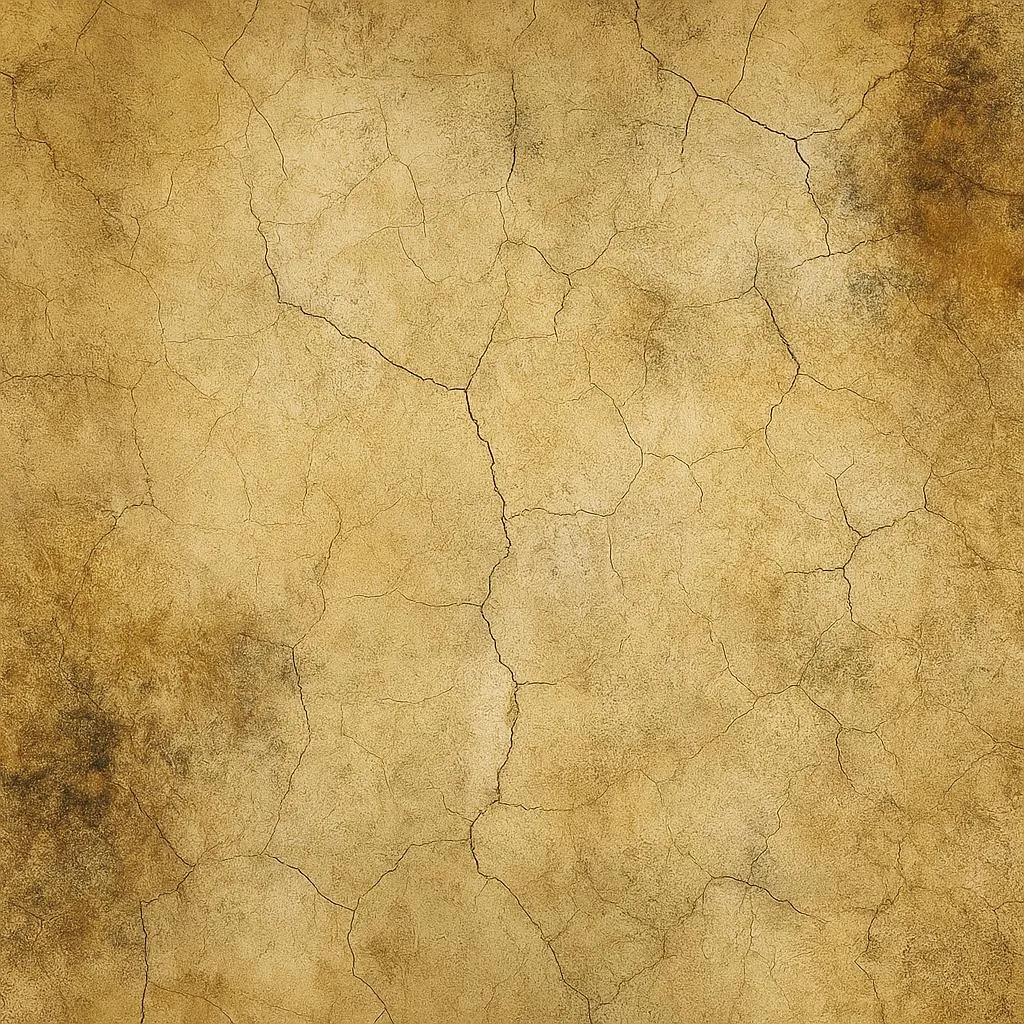
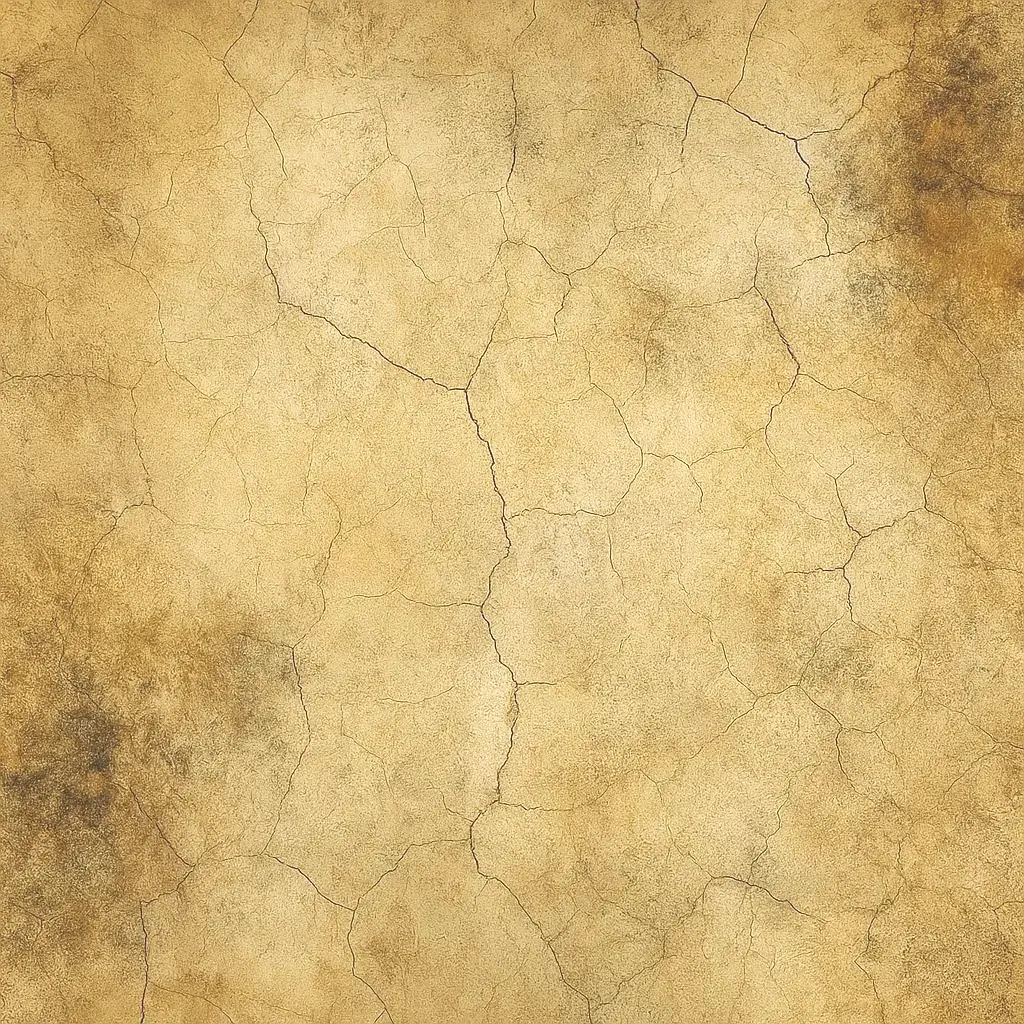
Auto backup: 2025-12-15 22:19:01

diff --git a/src/components/sections/services_backup.tsx b/src/components/sections/services_backup.tsx
@@ -1,0 +1,66 @@
+import Link from 'next/link'
+import Image from 'next/image'
+import { services } from '@/lib/services-data'
+import manifest from '@/config/KANONICZNY_MANIFEST.json'
+import { ArrowRight } from 'lucide-react'
+
+export function Services() {
+  return (
+    <section id="uslugi" className="relative pt-8 md:pt-12 pb-16 md:pb-24 text-center text-white bg-[#1e1b16]">
+      {/* Tło */}
+      <div
+        className="absolute inset-0 bg-cover bg-center"
+        style={{
+          backgroundImage: `url('${manifest.services_background}')`,
+        }}
+      >
+        <div className="absolute inset-0 bg-black/50" />
+      </div>
+
+      {/* Zawartość */}
+      <div className="relative max-w-7xl mx-auto px-4 md:px-6">
+        <div className="mb-6 text-center">
+          <h2 className="text-[40px] font-cormorant font-bold text-[#ffffff] leading-[1.1]">
+            Nasze Usługi
+          </h2>
+          <p className="mt-[6px] text-[18px] text-[#bfa76a] font-cormorant italic leading-tight max-w-5xl mx-auto font-semibold drop-shadow-2xl">
+            Oferujemy serwis komputerów, laptopów i drukarek oraz wsparcie techniczne dla domu i biura we Wrocławiu
+          </p>
+        </div>
+
+        <div className="grid grid-cols-1 md:grid-cols-2 lg:grid-cols-3 gap-4 items-start">
+          {services.map((service) => (
+            <Link
+              key={service.slug}
+              href={`/uslugi/${service.slug}`}
+              className="group relative min-h-[70px] rounded-lg py-2 px-3 border-2 border-[rgba(200,169,107,0.5)] hover:border-[rgba(200,169,107,0.85)] transition-all duration-300 hover:shadow-xl flex items-center text-left w-full services-card-bg"
+            >
+              {/* Ikona */}
+              <div className="mr-4 w-[50px] h-[50px] flex-shrink-0 flex items-center justify-center">
+                <Image
+                  src={service.icon}
+                  alt={`${service.title} Wrocław - ikona usługi serwisowej`}
+                  width={50}
+                  height={50}
+                  className="object-contain w-full h-full opacity-90 group-hover:opacity-100 transition-opacity"
+                  unoptimized
+                />
+              </div>
+
+              {/* Treść */}
+              <div className="flex-1">
+                <h3 className="text-lg md:text-xl font-cormorant font-semibold text-[#ffffff] group-hover:text-white transition-colors mb-1 leading-tight">
+                  {service.title}
+                </h3>
+                <div className="flex items-center gap-2 text-[#bfa76a] text-xs font-serif group-hover:translate-x-1 transition-transform">
+                  <span>Zobacz cennik</span>
+                  <ArrowRight className="w-3 h-3" />
+                </div>
+              </div>
+            </Link>
+          ))}
+        </div>
+      </div>
+    </section>
+  )
+}

diff --git a/src/app/uslugi/service-accordion.tsx b/src/app/uslugi/service-accordion.tsx
@@ -1399,11 +1399,11 @@ const getPrinterImageForCategory = (categoryTitle: string, serviceSlug?: string)
   if (serviceSlug === 'serwis-drukarek-iglowych') {
     switch (categoryTitle) {
       case 'Mała drukarka igłowa':
-        return '/images/Mała_drukarka_Igłowa.png'
+        return '/images/Mała_drukarka_Igłowa.webp'
       case 'Średnia drukarka igłowa':
-        return '/images/Średnia_drukarka_Igłowa.png'
+        return '/images/Średnia_drukarka_Igłowa.webp'
       case 'Duża drukarka igłowa':
-        return '/images/Duża_drukarka_Igłowa.png'
+        return '/images/Duża_drukarka_Igłowa.webp'
       default:
         return ''
     }
@@ -1413,9 +1413,9 @@ const getPrinterImageForCategory = (categoryTitle: string, serviceSlug?: string)
   if (serviceSlug === 'serwis-drukarek-termicznych') {
     switch (categoryTitle) {
       case 'Mała drukarka etykiet':
-        return '/images/Mała_drukarka_etykiet.png'
+        return '/images/Mała_drukarka_etykiet.webp'
       case 'Średnia drukarka etykiet':
-        return '/images/Srednia_drukarka_etykiet.png'
+        return '/images/Srednia_drukarka_etykiet.webp'
       case 'Duża drukarka etykiet':
         return '/images/Duża_drukarka_etykiet.png'
       default:
@@ -1440,11 +1440,11 @@ const getPrinterImageForCategory = (categoryTitle: string, serviceSlug?: string)
   // Для всех остальных страниц используем старые изображения
   switch (categoryTitle) {
     case 'Drukarka domowa':
-      return '/images/Drukarka_domowa.png'
+      return '/images/Drukarka_domowa.webp'
     case 'Drukarka biurowa':
-      return '/images/A4_MFU_kolor.png'
+      return '/images/A4_MFU_kolor.webp'
     case 'Drukarka biznesowa':
-      return '/images/MFU A3A4 (mono).png'
+      return '/images/MFU A3A4 (mono).webp'
     default:
       return ''
   }
@@ -1510,7 +1510,7 @@ const ServiceAccordion = ({ service }: { service: ServiceData }) => {
       <div
         className="relative pointer-events-auto w-[min(calc(100vw-64px),900px)] max-h-[88vh] overflow-y-auto rounded-2xl border border-[rgba(200,169,107,0.45)] shadow-[0_22px_45px_rgba(0,0,0,0.5)] text-[#f8eacd]"
         style={{
-          backgroundImage: "url('/images/services-background.png')",
+          backgroundImage: "url('/images/services-background.webp')",
           backgroundSize: 'cover',
           backgroundPosition: 'center',
         }}

diff --git a/src/app/globals.css b/src/app/globals.css
@@ -808,7 +808,7 @@
         rgba(58, 43, 23, 0.48) 0%,
         rgba(52, 36, 20, 0.82) 100%
       ),
-      url('/images/services-background.png') !important;
+      url('/images/services-background.webp') !important;
     background-color: transparent !important;
     background-size: cover !important;
     background-position: center !important;
@@ -828,7 +828,7 @@
         rgba(60, 45, 25, 0.45) 0%,
         rgba(55, 38, 20, 0.80) 100%
       ),
-      url('/images/services-background.png') !important;
+      url('/images/services-background.webp') !important;
     background-color: transparent !important;
     background-size: cover !important;
     background-position: center !important;
@@ -847,7 +847,7 @@
         rgba(60, 45, 25, 0.50) 0%,
         rgba(55, 38, 20, 0.85) 100%
       ),
-      url('/images/services-background.png') !important;
+      url('/images/services-background.webp') !important;
     box-shadow: 
       0 6px 16px rgba(0, 0, 0, 0.5),
       0 3px 8px rgba(0, 0, 0, 0.4),
@@ -862,7 +862,7 @@
         rgba(58, 43, 23, 0.50) 0%,
         rgba(52, 36, 20, 0.85) 100%
       ),
-      url('/images/services-background.png');
+      url('/images/services-background.webp');
     background-color: transparent;
     background-size: cover;
     background-position: center;
@@ -881,7 +881,7 @@
         rgba(58, 43, 23, 0.48) 0%,
         rgba(52, 36, 20, 0.82) 100%
       ),
-      url('/images/services-background.png');
+      url('/images/services-background.webp');
     background-color: transparent;
     background-size: cover;
     background-position: center;

diff --git a/src/components/sections/about.tsx b/src/components/sections/about.tsx
@@ -37,7 +37,6 @@ export function About() {
                 width={400}
                 height={500}
                 className="object-contain rounded-lg w-full h-auto"
-                priority
                 quality={85}
                 placeholder="blur"
[1 lines of base64/hex data omitted]

diff --git a/src/app/layout.tsx b/src/app/layout.tsx
@@ -220,6 +220,11 @@ export default function RootLayout({ children }: { children: ReactNode }) {
 
   return (
     <html lang="pl" className={fontClasses} suppressHydrationWarning>
+      <head>
+        <link rel="preload" href="/images/omobonus-hero.webp" as="image" />
+        <link rel="preload" href="/images/Background_1.webp" as="image" />
+        <link rel="preload" href="/images/Logo_Omobonus.webp" as="image" />
+      </head>
       <body className="font-sans antialiased scroll-smooth">
         {children}
         <script
